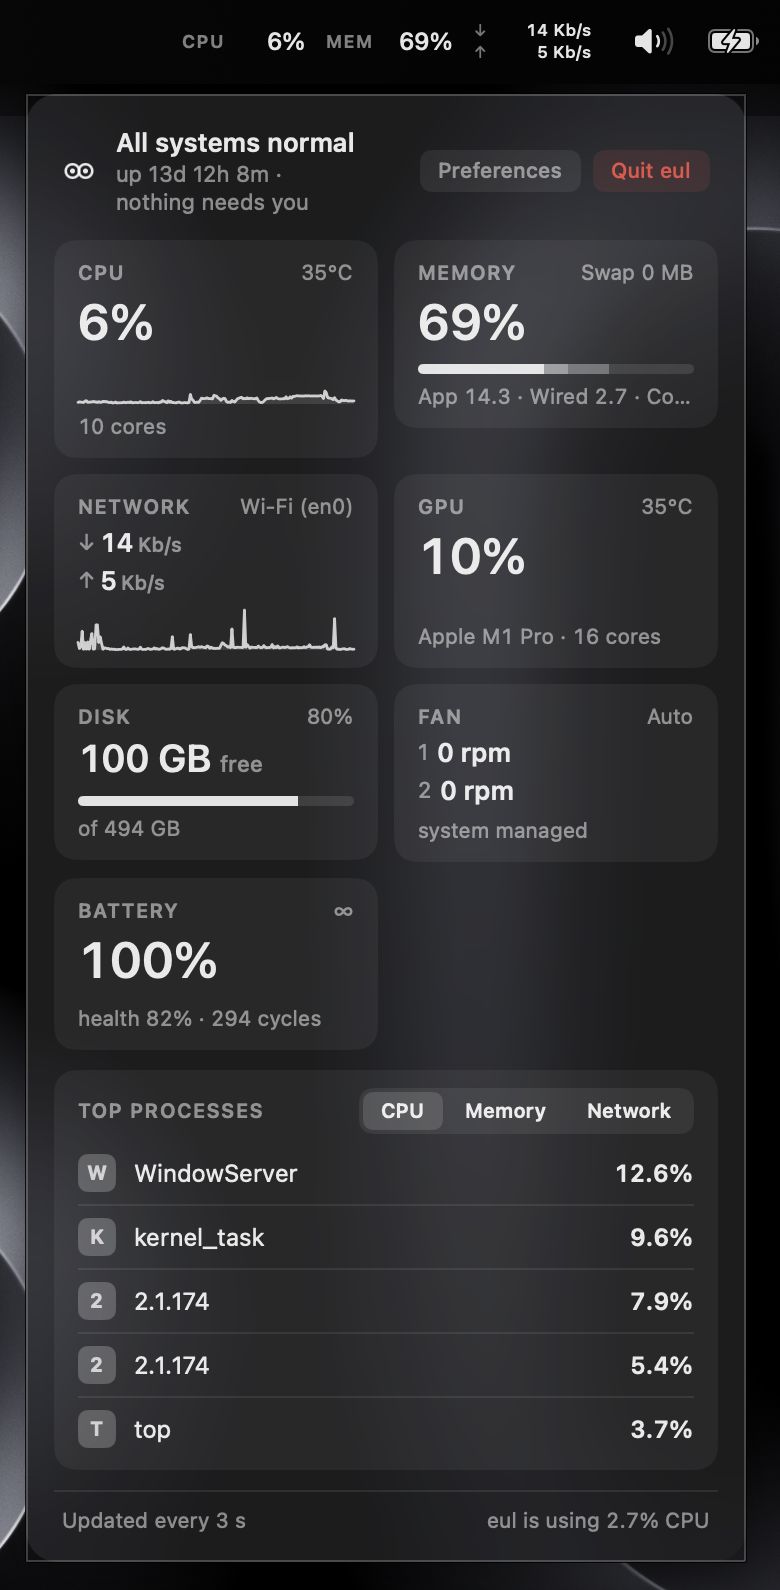
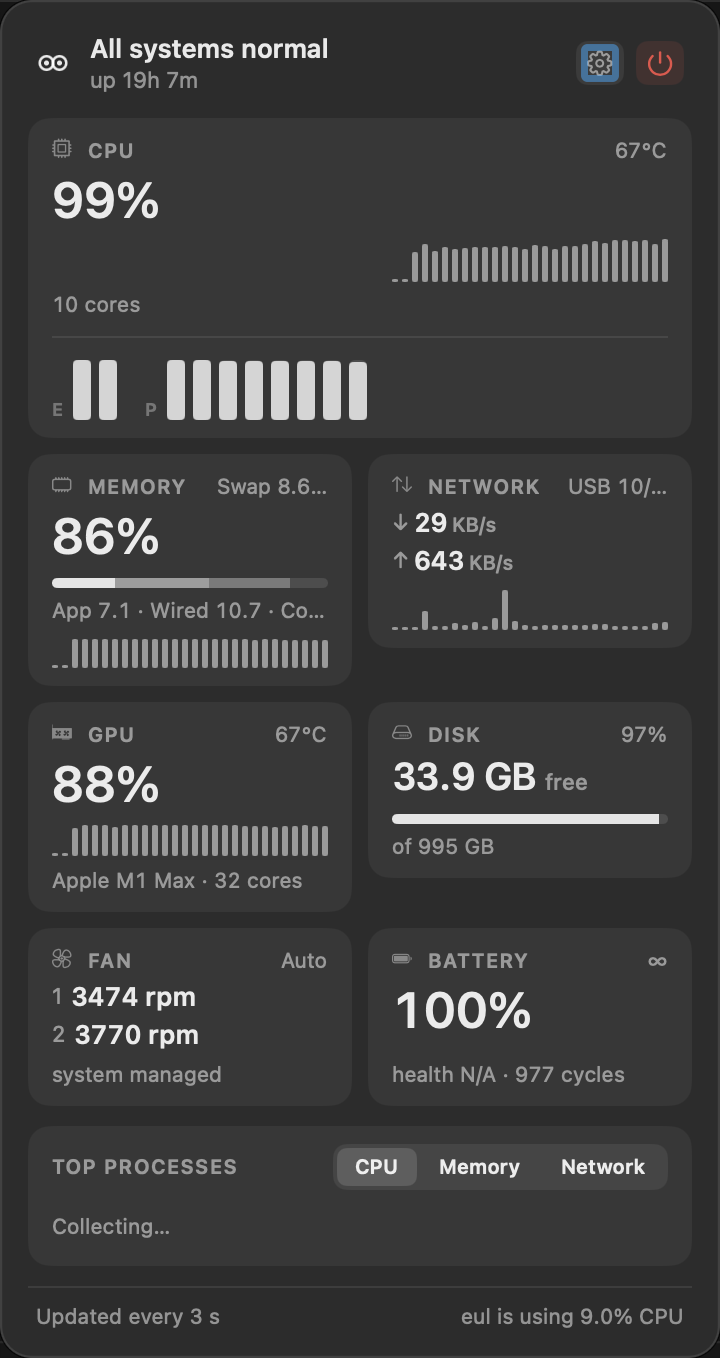
Update README for the redesign, and correct the OS requirement
New screenshots (menu bar in the smart style, and the panel), plus
highlights for the three slot styles, the shared histogram language and the
per-adapter address list.

The stated requirement was macOS 10.15 with "Big Sur 11+ for widgets", but
every target in the project has built against a 13.0 deployment target since
4a98d00 — the app will not run on Catalina at all. Universal x86_64 + arm64
is still accurate; verified with lipo against a release build.

Also notes in CLAUDE.md that the widget extensions are absent from the eul
scheme, so building `eul` compiles none of their code.

diff --git a/README.md b/README.md
@@ -7,22 +7,29 @@
 A calm system monitor for the macOS menu bar — this fork revives and redesigns [gao-sun/eul](https://github.com/gao-sun/eul) for modern macOS and Apple Silicon, rebuilt around one idea: **glanceable when things are fine, useful when they aren't.**
 
 <p align="center">
-  <img src="design/screenshots/panel.png" width="390" alt="The eul menu bar strip and investigation panel" />
+  <img src="design/screenshots/menubar-smart.png" width="620" alt="The eul menu bar strip in its smart slot style" />
+</p>
+
+<p align="center">
+  <img src="design/screenshots/panel.png" width="390" alt="The eul investigation panel" />
 </p>
 
 ## Highlights
 
 - **One entry point in the bar.** Your pinned metrics render as a single strip; when the menu bar gets crowded, a width governor collapses it slot by slot down to the eyes — eul never silently disappears.
-- **An investigation panel, not a dropdown.** Click the strip for a top-down read: verdict, metric tiles with sparklines, top processes by CPU / memory / network, and eul's own footprint reported on every open.
+- **An investigation panel, not a dropdown.** Click the strip for a top-down read: verdict, metric tiles with history charts, top processes by CPU / memory / network (with PIDs), and eul's own footprint reported on every open.
 - **A health engine instead of a Christmas tree.** Surfaces stay monochrome until a *sustained* signal trips — thermal pressure, memory pressure, disk almost full, runaway process — then exactly the responsible metric tints amber or red, in the bar and in the panel.
 - **Fan control with a real safety model.** A privileged helper (macOS 13+, approved by you in System Settings) drives the fans: linked by default with one stepped slider, Auto / Manual / Boost per fan if you unlink. Targets are clamped to hardware limits, macOS can always cool past your setting, and fans revert to Auto whenever eul isn't running — enforced by the helper's own dead-man watchdog, not by good intentions.
 - **Honest widgets.** Health and Trends widgets that say how old their data is instead of pretending to be live.
 - **Native, cheap sampling.** Metrics come from syscalls, not shelled-out tools; container writes and widget reloads are skipped when nothing consumes them; refresh cadence (1–10 s) is one slider with its energy cost stated next to it.
-- **Personalization without a layout editor.** Hide tiles you don't care about (right-click), value-only bar slots, °C/°F and MB/s ⇄ Mb/s units, 23 languages.
+- **Three slot styles, previewed live.** *Full* spells out `CPU 63%`, *Value only* drops the label, and *Smart* trades it for the component's glyph and tucks a history histogram under each number. Settings renders all three against live data, so you pick by looking rather than by reading three words.
+- **One chart language everywhere.** The same zero-based histogram draws in the bar, the panel and the widgets. Zero-based on purpose: scaling a chart to its own window minimum makes an idle GPU look busy, which is the opposite of what a chart is for.
+- **Your addresses, one click away.** The network tile expands to every adapter and its bound addresses — loopback included — ordered by your configured service order. Click one to copy it.
+- **Personalization without a layout editor.** Hide tiles you don't care about (right-click), °C/°F and MB/s ⇄ Mb/s units, 23 languages.
 
 ## OS Requirement
 
-macOS 10.15+ (Catalina) for the app. Fan control requires macOS 13+ and a signed build. Big Sur 11+ for widgets. Universal: Apple Silicon + Intel.
+macOS 13+ (Ventura) — every target in the project builds against a 13.0 deployment target. Fan control additionally needs a signed build so the privileged helper can be approved. Universal: Apple Silicon + Intel.
 
 ## Installation
 

diff --git a/CLAUDE.md b/CLAUDE.md
@@ -14,15 +14,21 @@ cd BuildTools && swift run -c release swiftformat ../
 # Lint format (CI check)
 cd BuildTools && swift run -c release swiftformat ../ --lint
 
+# Widget extensions are NOT part of the `eul` scheme — building `eul` alone
+# compiles none of their code. Build each by its own scheme:
+xcodebuild -scheme CpuWidgetExtension -project ./eul.xcodeproj -sdk macosx build
+# (same for MemoryWidgetExtension, NetworkWidgetExtension, BatteryWidgetExtension,
+#  EulWidgetsExtension — only EulWidgetsExtension is embedded in the app bundle)
+
 # Release build (no signing)
 xcodebuild -scheme eul -project ./eul.xcodeproj -sdk macosx build CODE_SIGN_IDENTITY="" CODE_SIGNING_REQUIRED="NO" CODE_SIGN_ENTITLEMENTS="" CODE_SIGNING_ALLOWED="NO"
 ```
 
-CI runs on `macos-latest` with Xcode 12.4 (for Big Sur compatibility). Open `eul.xcodeproj` in Xcode to run/debug.
+CI runs on `macos-latest` with the latest stable Xcode. Open `eul.xcodeproj` in Xcode to run/debug.
 
 ## Architecture
 
-**eul** is a macOS menu bar hardware monitor built with SwiftUI (min deployment: macOS 10.15).
+**eul** is a macOS menu bar hardware monitor built with SwiftUI (min deployment: macOS 13.0).
 
 ### Targets
 
